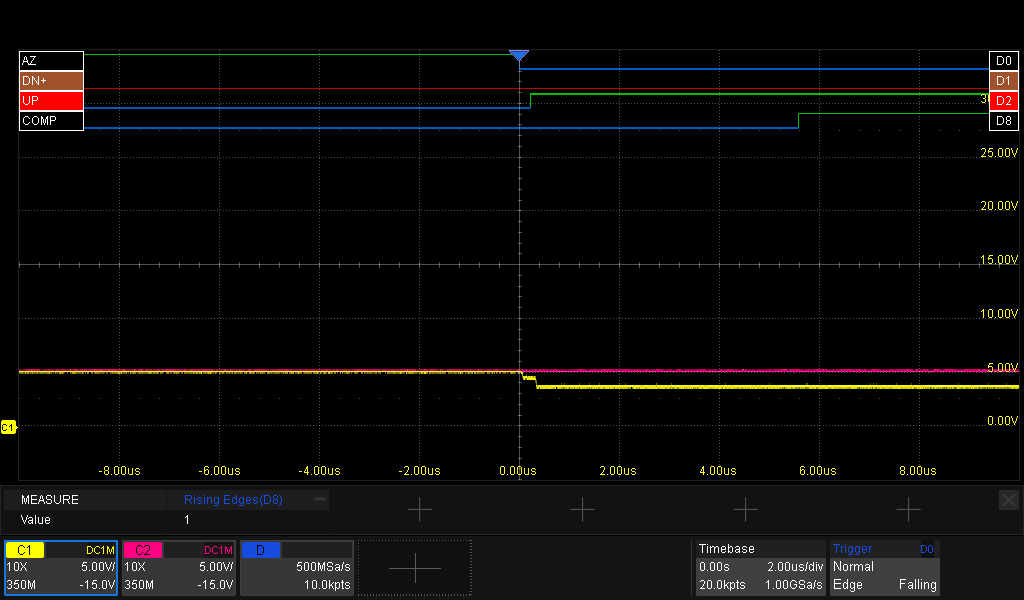
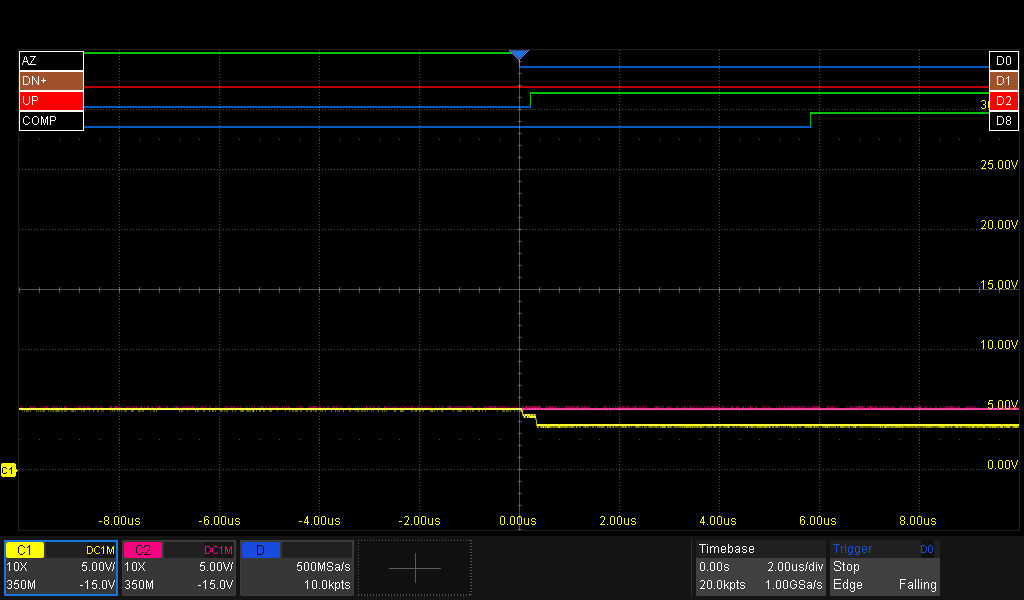
Included signal-names

diff --git a/Deepdive/N20/README.md b/Deepdive/N20/README.md
@@ -9,12 +9,28 @@ Its functions include:
 
 ![ADC Signalflow](assets/ADC_Signalflow_N20.png "The signalflow between the components")
 
+### The signals
+The signals used/shown on this page (see also the image above):
+| Signal | Use | Source | Target |
+| - | - | - | - |
+| **SRUP** | Start Ramp-Up | CPU | ADC Control |
+| **SAZ** | Set Auto Zero | CPU | ADC Core |
+| **CP** | Clock Pulses | CPU | ADC Core |
+| **DN-** | RampDown phase, for -pol input signals | ADC Control | ADC Core |
+| **DN+** | RampDown phase, for +pol input signals | ADC Control | ADC Core |
+| **UP** | RampUp phase | ADC Control | ADC Core|
+| **XC20** | Counter overflow (20.000 counts) @ RampDown | ADC Control | CPU |
+| **AZ** | AutoZero active? | ADC Control | ADC Core, CPU |
+| **COMP** | COMPuting (integrator busy) | ADC Core | ADC Control |
+| **C20000** | Counter overflow (20.000 counts) | Counter | ADC Control |
+| **CPC** | Clockpulses for Counter | ADC Control | Counter |
+| **RC** | Reset Counter | ADC Control | Counter |
+| **yellow trace** | Input to ADC Integrator | Signal conditioning | ADC Core |
+| **purple trace** | ADC Integrator | ADC Core | ADC Core |
+
 # A Measurement Cycle from the ADC Control's perspective
 
-This section describes in detail how the N20 takes it role as the conductor of a measurement. The next image shows an overview, including the most important signals. Not in this image are:
-- **POL**: Polarity of the signal
-- **DN-**: Start of Ramp-Down for negative-polarity signals
-- **HSM**: Indication this will be a high-speed measurement
+This section describes in detail how the N20 takes it role as the conductor of a measurement. The next image shows an overview, including the most important signals.
 
 ![N20 MeasurementCycle](assets/N20_MeasurementCycle.png "N20 - A complete measurement-cycle")
 
@@ -55,4 +71,10 @@ See the first image in this section for reference.
 - The ADC Control asserts the **AZ** signal, signalling the CPU it's job has been done and signaling the ADC Core to select 0V (**yellow trace**) as input to the ADC logic.
 
 
-The CPU has enough info to calculate the voltage of the input-signal.
+The CPU has enough info to calculate the voltage of the input-signal:
+- the current value of the Counter
+- Multiply the number of **XC20** pulses by 20.000
+- Ramp-up phase = 200.000 counts (=fixed)
+- Ramp-down phase = 135.100 counts (=6 x 20.000 from **XC20** + 15.100 from the Counter), which should be the same as the nummber of pulses **CPC**
+- Reference-voltage = 2000mV
+>Vin = (Tdown / Tup) × Vref = (135.100 / 200.000) * 2000mV = 1351mV

diff --git a/Deepdive/ADC/README.md b/Deepdive/ADC/README.md
@@ -35,6 +35,18 @@ Here lies the analog heart of the converter. This board provides a reference vol
 #### The Counter
 The 20.000 counts Counter just counts pulses, provided by the ADC Control. In return, it provides the actual count-value to the CPU.
 
+### The signals
+The signals used/shown on this page (see also the image above):
+| Signal | Use | Source | Target |
+| - | - | - | - |
+| **SRUP** | Start Ramp-Up | CPU | ADC Control |
+| **SAZ** | Set Auto Zero | CPU | ADC Core |
+| **CP** | Clock Pulses | CPU | ADC Core |
+| **XC20** | Counter overflow (20.000 counts) @ RampDown | ADC Control | CPU |
+| **Count** | Current value | Counter | CPU |
+| **yellow trace** | Input to ADC Integrator | Signal conditioning | ADC Core |
+| **purple trace** | ADC Integrator | ADC Core | ADC Core |
+
 # A Measurement Cycle in action
 Let’s walk through a full measurement cycle, based on scope captures and logic traces. We'll do this top-down, so first an overview, then the details.
 
@@ -67,9 +79,9 @@ The screencapture below shows a full ADC-cycle. The input voltage is about 1351m
 - The input signal to the ADC (**yellow trace**) is reset to 0V.
 
 #### Displaying the measured value
-The CPU now calculates the measured value, with:
+The CPU now calculates the measured value, using
 - the current value of the Counter
-- Multiply the number of **XC20** pulses by 20.000
+- the number of **XC20** pulses
 - Ramp-up phase = 200.000 counts (=fixed)
 - Ramp-down phase = 135.100 counts (=6 x 20.000 from **XC20** + 15.100 from the Counter)
 - Reference-voltage = 2000mV

diff --git a/Deepdive/N21/README.md b/Deepdive/N21/README.md
@@ -3,12 +3,23 @@
 
 ![ADC Signalflow](assets/ADC_Signalflow_N21.png "The signalflow between the components")
 
+The signals used/shown on this page (see also the image above):
+| Signal | Use | Source | Target |
+| - | - | - | - |
+| **AZ** | AutoZero active? | ADC Control | ADC Core, CPU |
+| **DN-** | RampDown phase, for -pol input signals | ADC Control | ADC Core |
+| **DN+** | RampDown phase, for +pol input signals | ADC Control | ADC Core |
+| **UP** | RampUp phase | ADC Control | ADC Core|
+| **COMP** | COMPuting (integrator busy) | ADC Core | ADC Control |
+| **yellow trace** | Input to ADC Integrator | Signal conditioning | ADC Core |
+| **purple trace** | ADC Integrator | ADC Core | ADC Core |
+
 # A Measurement Cycle from the ADC Core's perspective
 
 This section describes in detail how the N20 takes it role as the conductor of a measurement. The next image shows an overview, including the most important signals. Not in this image is:
 - **DN-**: Start of Ramp-Down for negative-polarity signals
 
-![N21 MeasurementCycle](assets/N21_measurementCycle.png "N21 - A complete measurement-cycle")
+![N21 MeasurementCycle](assets/N21_MeasurementCycle.png "N21 - A complete measurement-cycle")
 
 #### @0ms: start of the cycle
 ![N21 Start RampUp](assets/N21_RampUp.png "N21 Start RampUp")
